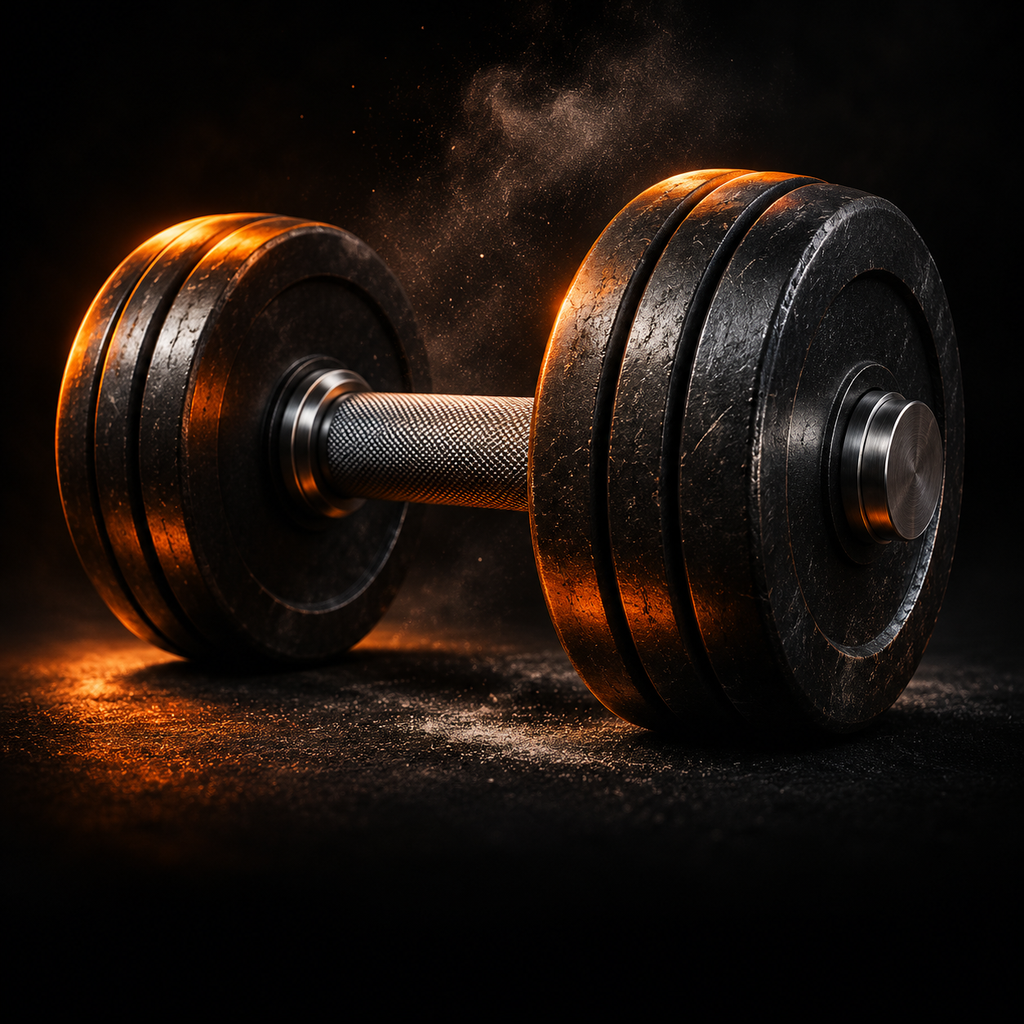
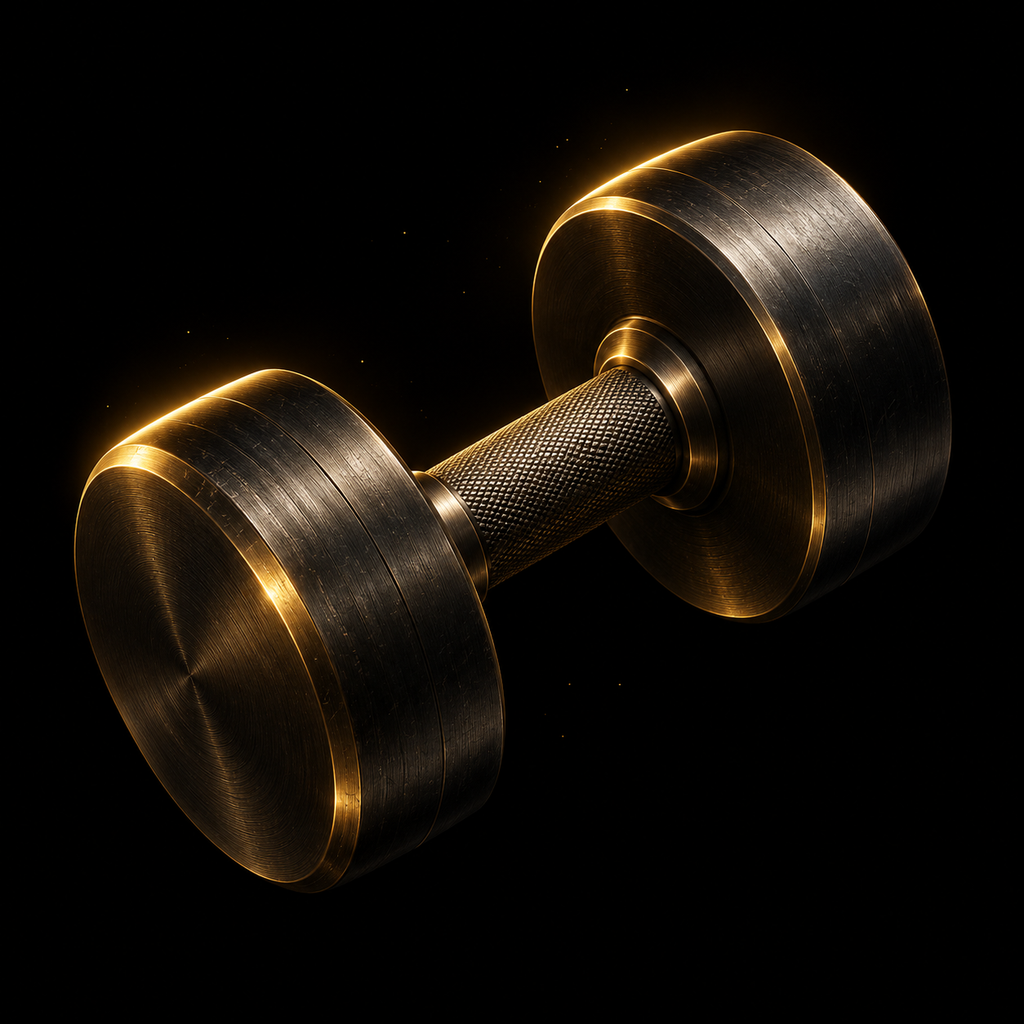
Add files via upload

diff --git a/native/RivalViewController.swift b/native/RivalViewController.swift
@@ -1,4 +1,4 @@
-// RIVAL · R2 · the main screen of every Rival iPhone app. Main.storyboard points here.
+// RIVAL · R3 (Club's coach can send a command: rivalX://open?say=...) · R2 · the main screen of every Rival iPhone app. Main.storyboard points here.
 // 1. Attaches the coach's ears (CoachSpeechPlugin) - unless Capacitor already attached them from capacitor.config.json.
 // 2. Tells the page which iPhone build it is in (window.RIVAL_NATIVE), so the page can show it when something is off.
 // 3. App links: when Club Rival opens this app with a link like rivalstride://open?do=walk, the page opens on that spot.
@@ -17,7 +17,7 @@ class RivalViewController: CAPBridgeViewController {
         let build = (info["CFBundleVersion"] as? String) ?? "?"
         let ver = (info["CFBundleShortVersionString"] as? String) ?? "?"
         let ears = bridge?.plugin(withName: "CoachSpeech") != nil
-        let js = "window.RIVAL_NATIVE={kit:'R2',ears:\(ears ? "true" : "false"),build:'\(build)',version:'\(ver)'};"
+        let js = "window.RIVAL_NATIVE={kit:'R3',ears:\(ears ? "true" : "false"),build:'\(build)',version:'\(ver)'};"
         webView?.configuration.userContentController.addUserScript(
             WKUserScript(source: js, injectionTime: .atDocumentStart, forMainFrameOnly: true))
         linkWatch = NotificationCenter.default.addObserver(forName: .capacitorOpenURL, object: nil, queue: .main) { [weak self] note in
@@ -36,10 +36,10 @@ class RivalViewController: CAPBridgeViewController {
     private func openLink(_ u: URL) {
         guard u.scheme?.hasPrefix("rival") == true,
               let q = URLComponents(url: u, resolvingAgainstBaseURL: false)?.queryItems,
-              q.contains(where: { $0.name == "do" }),
+              q.contains(where: { $0.name == "do" || $0.name == "say" }),
               let base = bridge?.config.serverURL,
               var c = URLComponents(url: base, resolvingAgainstBaseURL: false) else { return }
-        c.queryItems = q.filter { ["do", "go", "from"].contains($0.name) }
+        c.queryItems = q.filter { ["do", "go", "from", "say"].contains($0.name) }
         if let to = c.url { webView?.load(URLRequest(url: to)) }
     }
 }

diff --git a/START-HERE.md b/START-HERE.md
@@ -1,4 +1,4 @@
-# Rep Rival - the iPhone app · RR31 (R2)
+# Rep Rival - the iPhone app · RR35 (R3)
 
 This folder is the iPhone wrapper for **myreprival.netlify.app**. The app opens the live site inside a real iPhone app.
 When you put a new build on the site, the app gets it too. No new upload needed for normal updates.
@@ -47,3 +47,9 @@ New files: `native/`. The setup script adds them to the project by itself. If Co
 - The coach's ears are now attached two ways. If either piece is missing, Codemagic STOPS with a plain message instead of making an app that can't listen.
 - App link rivalrep:// - Club Rival's tile opens this app instead of the website.
 - Upload EVERYTHING in this zip to the repo (replace all), then Start new build in Codemagic.
+
+
+## RR35 · R3 · the new icon and splash
+- New photo-style icon and a matching opening splash (black, the icon glowing in the middle).
+- The Club coach can send this app a command (rivalX://open?say=...), and it runs it the way it would if you said it here.
+- Upload EVERYTHING in this zip to the repo (replace all). Codemagic builds it.
